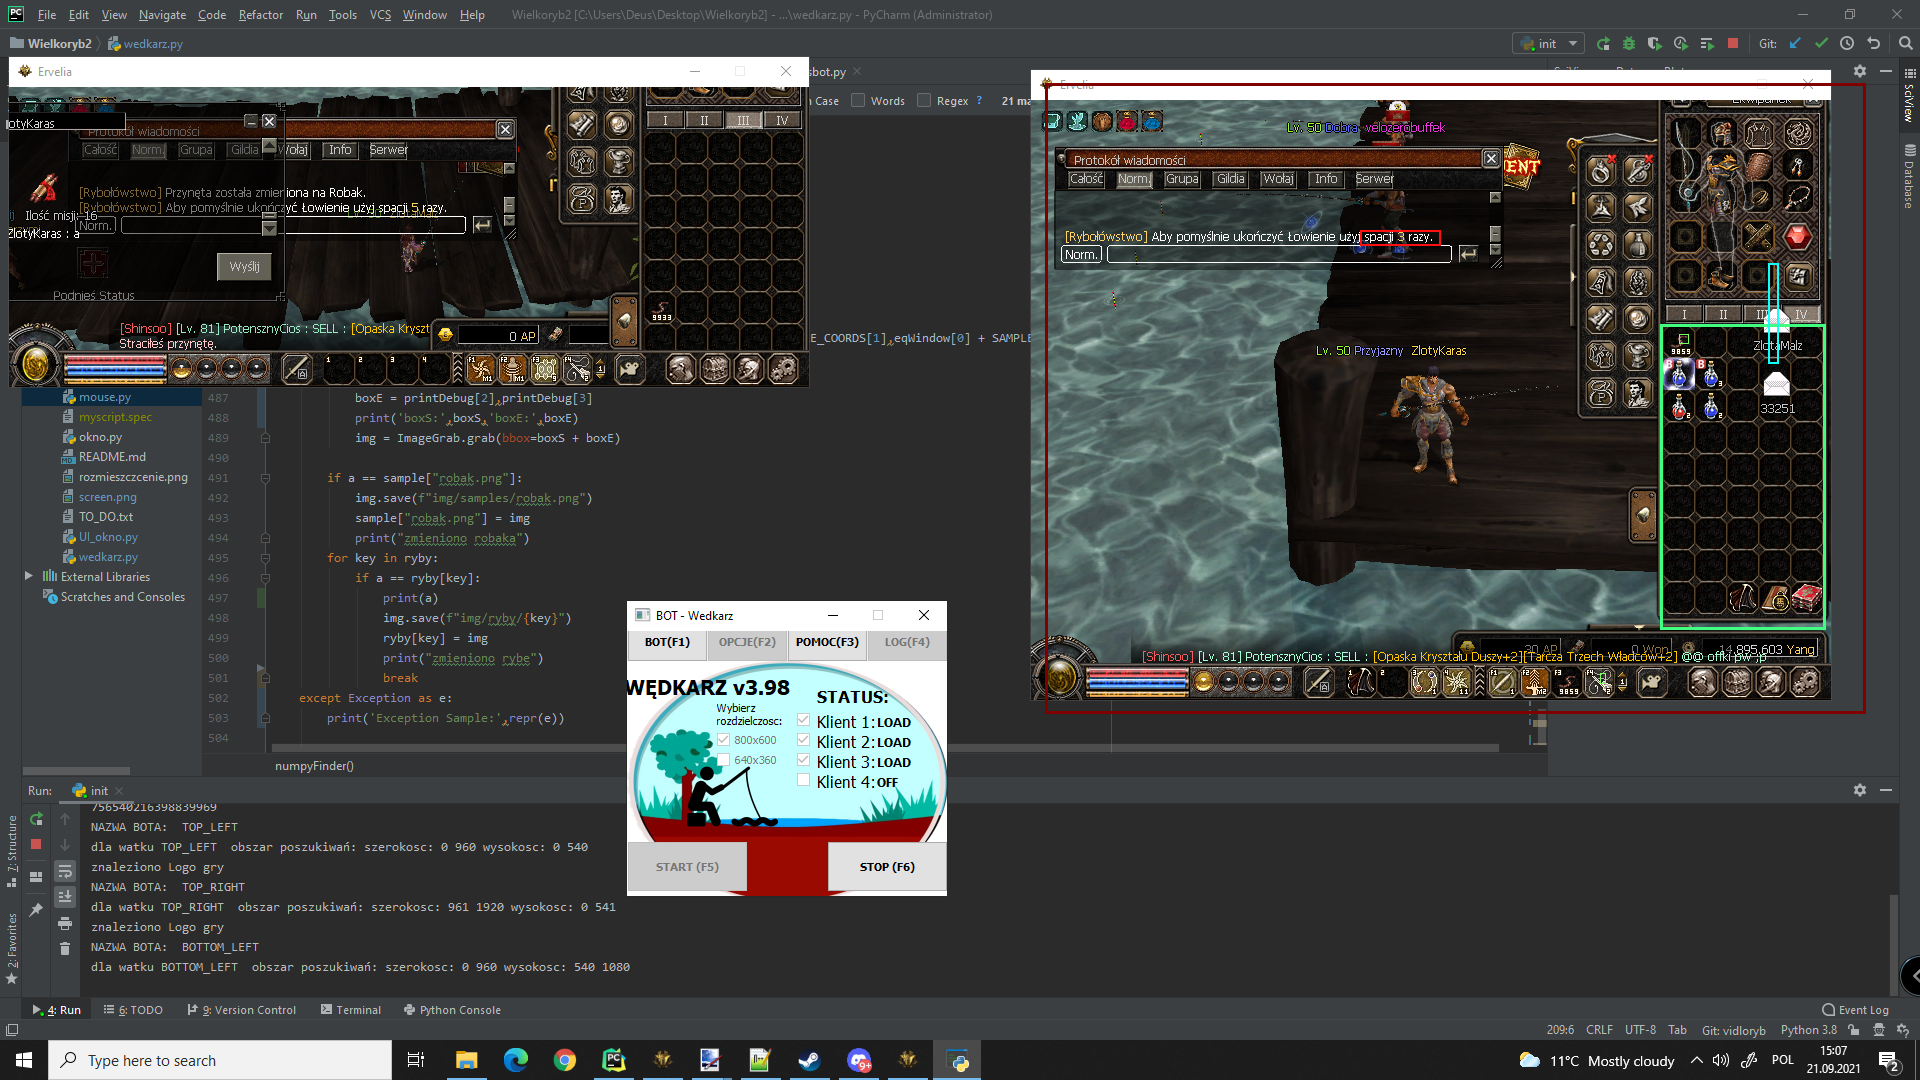
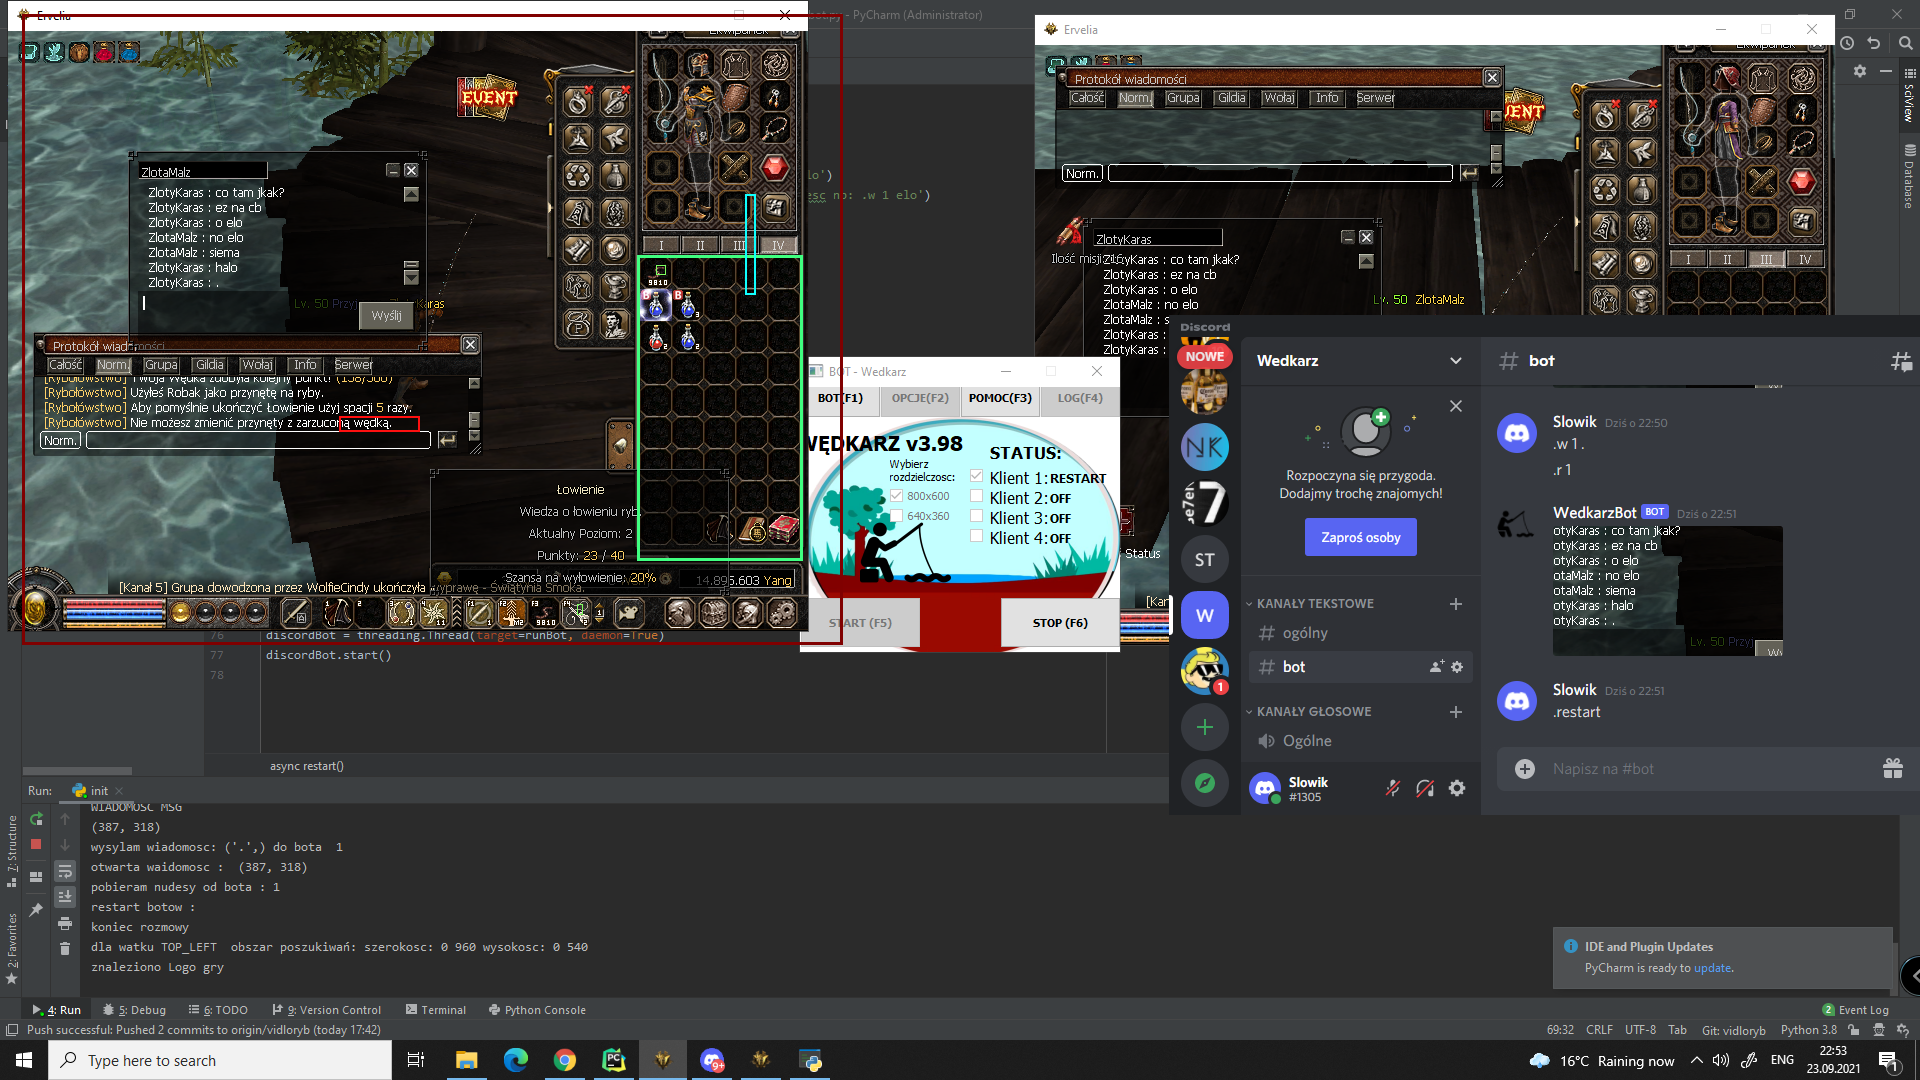
wersja 4.1 Dodane komendy do discbota: .w (odpisywanie) .r (odczytywanie wiadomosci) .restart (ponowne uruchamianie bota)
Dziala dosyc stabilnie.

diff --git a/wedkarz.py b/wedkarz.py
@@ -23,9 +23,8 @@ pustybit = (0, 15, 255)  # Wartosc bita "maski"
 RESTART_COUNT = 0  # licznik ile razy boty łącznie zostaly zrestartowane podczas aktualneej sesji
 THREAD = 1  # Zmienna do konczenia wszystkich watkow (STOP botow)
 WHICHTHREAD = 0  # ustalanie ktory watek odpalony za pomoca nazwy
-
+exitConversationLoop = 0
 screenGrab = d3dshot.create(capture_output="numpy")
-
 
 #   POZYCJONOWANIE OBSZAROW BOTA   #
 #rozdzielczosc gry(jakiej wielkosci jest okno gry w ktorym bot ma szukac)
@@ -101,18 +100,7 @@ def find_logo(botPosition,logo):
 	box3 = logo.getbbox()
 	img = ImageGrab.grab()
 	screenSize = [0, 0, img.size[0], img.size[1]]
-	if botPosition == 1:
-		screenSize[2] = int(img.size[0] / 2)
-		screenSize[3] = int(img.size[1] / 2)
-	elif botPosition == 2:
-		screenSize[0] = int((img.size[0] / 2) + 1)
-		screenSize[3] = int((img.size[1] / 2) + 1)
-	elif botPosition == 3:
-		screenSize[2] = int(img.size[0] / 2)
-		screenSize[1] = int(img.size[1] / 2)
-	elif botPosition == 4:
-		screenSize[1] = int((img.size[1] / 2) + 1)
-		screenSize[0] = int((img.size[1] / 2) + 1)
+	screenSize=botWindowPosition(screenSize,botPosition,img)
 	h = 0
 	print(
 		f"dla watku {threading.current_thread().name}  obszar poszukiwań: szerokosc: {screenSize[0]} {screenSize[2]} wysokosc: {screenSize[1]} {screenSize[3]}")
@@ -361,21 +349,22 @@ def fishing(ActualThreadNumber, baitPosition, fishingPosition, chatWindow1, msgB
 
 
 def conversation(msgIconPosition, ActualThreadNumber, wholeWindow):
-	exitLoop = 1
+	disbot.exitConversationLoop = 1
 	future = asyncio.run_coroutine_threadsafe(disbot.client.signal(f"Wiadomosc w watku:{ActualThreadNumber}"),
 	                                          eventLoop)
-	result = future.result()
+	future.result()
 	mouse.q.put(('LMB', msgIconPosition[0], msgIconPosition[1], 1, space_Delay))
 	time.sleep(2)
 	msgWindowPosition = searchInWindow(window=wholeWindow, szukany=sample['msg2.png'])
 	print(msgWindowPosition)
 	msgWindowBox = msgWindowPosition[0] - 230, msgWindowPosition[1] - 130, msgWindowPosition[0], msgWindowPosition[1]
 	screen = ImageGrab.grab(bbox=msgWindowBox)
-	screen.save("screen.png")
 	future = asyncio.run_coroutine_threadsafe(disbot.client.sendScreen(screen), eventLoop)
-	result = future.result()
-	while exitLoop == 1:
+	future.result()
+	while disbot.exitConversationLoop == 1:
 		pass
+	print("koniec rozmowy")
+
 
 
 # print("wiadomosc w watku ",ActualThreadNumber)
@@ -461,6 +450,49 @@ def checkBox(ActualThreadNumber):
 	if threading.current_thread().name != "MainThread":
 		return logoPosition, gameWindow, chatWindow, eqWindow, msgBox
 	return logoPosition, gameWindow, eqWindow, msgBox
+
+
+def botWindowPosition(screenSize,botPosition,img):
+	botPosition=int(botPosition)
+	if botPosition == 1:
+		screenSize[2] = int(img.size[0] / 2)
+		screenSize[3] = int(img.size[1] / 2)
+	elif botPosition == 2:
+		screenSize[0] = int((img.size[0] / 2) + 1)
+		screenSize[3] = int((img.size[1] / 2) + 1)
+	elif botPosition == 3:
+		screenSize[2] = int(img.size[0] / 2)
+		screenSize[1] = int(img.size[1] / 2)
+	elif botPosition == 4:
+		screenSize[1] = int((img.size[1] / 2) + 1)
+		screenSize[0] = int((img.size[1] / 2) + 1)
+	else:
+		print("brak podanego watku bota")
+	return screenSize
+
+def msgInGame(botPosition, tresc):
+	img = ImageGrab.grab()
+	screenSize = [0, 0, img.size[0], img.size[1]]
+	screenSize=botWindowPosition(screenSize,botPosition,img)
+	send = searchInWindow(screenSize , sample["msg2.png"])
+	if send == 0:
+		print("brak otwartej wiadomosci w oknie")
+	else:
+		mouse.q.put(('move', send[0]-35, send[1], 1, space_Delay))
+		mouse.q.put(('write', tresc, space_Delay))
+		mouse.q.put(('LMB', send[0], send[1], 1, space_Delay))
+		print('otwarta waidomosc : ' ,send)
+
+
+async def picToDiscord(botPosition):
+	img = ImageGrab.grab()
+	screenSize = [0, 0, img.size[0], img.size[1]]
+	screenSize=botWindowPosition(screenSize,botPosition,img)
+	sendButton = searchInWindow(screenSize , sample["msg2.png"])
+	msgWindowBox = sendButton[0] - 230, sendButton[1] - 130, sendButton[0], sendButton[1]
+	screen = ImageGrab.grab(bbox=msgWindowBox)
+	await disbot.client.sendScreen(screen)
+
 
 
 def probka(a):

diff --git a/disbot.py b/disbot.py
@@ -1,5 +1,6 @@
 import discord
 import asyncio
+import wedkarz
 import threading
 from time import sleep
 from io import BytesIO
@@ -10,7 +11,7 @@ import os
 
 # Credentials
 load_dotenv('.env')
-
+exitConversationLoop = 0
 
 class MyClient(commands.Bot):
 	def __init__(self, *args, **kwargs):
@@ -25,6 +26,7 @@ class MyClient(commands.Bot):
 		await self.wait_until_ready()
 		channel = self.get_channel(756525875452706846)  # channel ID goes here
 		await channel.send(msg)
+
 
 	async def sendScreen(self, screen):
 		await self.wait_until_ready()
@@ -42,10 +44,30 @@ client = MyClient()
 
 
 @client.command()
-async def w(ctx, arg, arg2):
-	if int(arg):
-		print(arg, arg2)
+async def w(ctx, arg, *args):
+	try:
+		if int(arg):
+			print("wysylam wiadomosc:",args,"do bota ",arg)
+			wedkarz.msgInGame(arg, " ".join(args[:]))
+	except ValueError:
+		print('poprawna konstrukcja komendy : .w [ktory bot] tresc np: .w 1 elo')
+		await client.signal('poprawna konstrukcja komendy : .w [ktory bot] tresc np: .w 1 elo')
 
+@client.command()
+async def r(ctx, arg):
+	try:
+		if int(arg):
+			print("pobieram nudesy od bota :",arg)
+			await wedkarz.picToDiscord(arg)
+	except ValueError:
+		print('poprawna konstrukcja komendy : .r [ktory bot] np: .w 1')
+		await client.signal('poprawna konstrukcja komendy : .r [ktory bot] np: .w 1')
+
+@client.command()
+async def restart(ctx):
+	print("restart botow :")
+	global exitConversationLoop
+	exitConversationLoop = 0
 
 def runBot():
 	client.run(os.getenv('TOKEN'))

diff --git a/mouse.py b/mouse.py
@@ -28,10 +28,15 @@ def queueOperator():
 						pyautogui.click(button='right')
 						time.sleep(cmd[4])
 				elif cmd[0] == 'LMB':
-					print("LMB !!!")
+					#print("LMB !!!")
 					pyautogui.moveTo(cmd[1], cmd[2])
 					time.sleep(cmd[4])
 					pyautogui.click(button='left')
 					time.sleep(cmd[4])
+				elif cmd[0] == 'write':
+					time.sleep(cmd[2])
+					pyautogui.write(cmd[1], interval=0.05)
+
+
 
 
